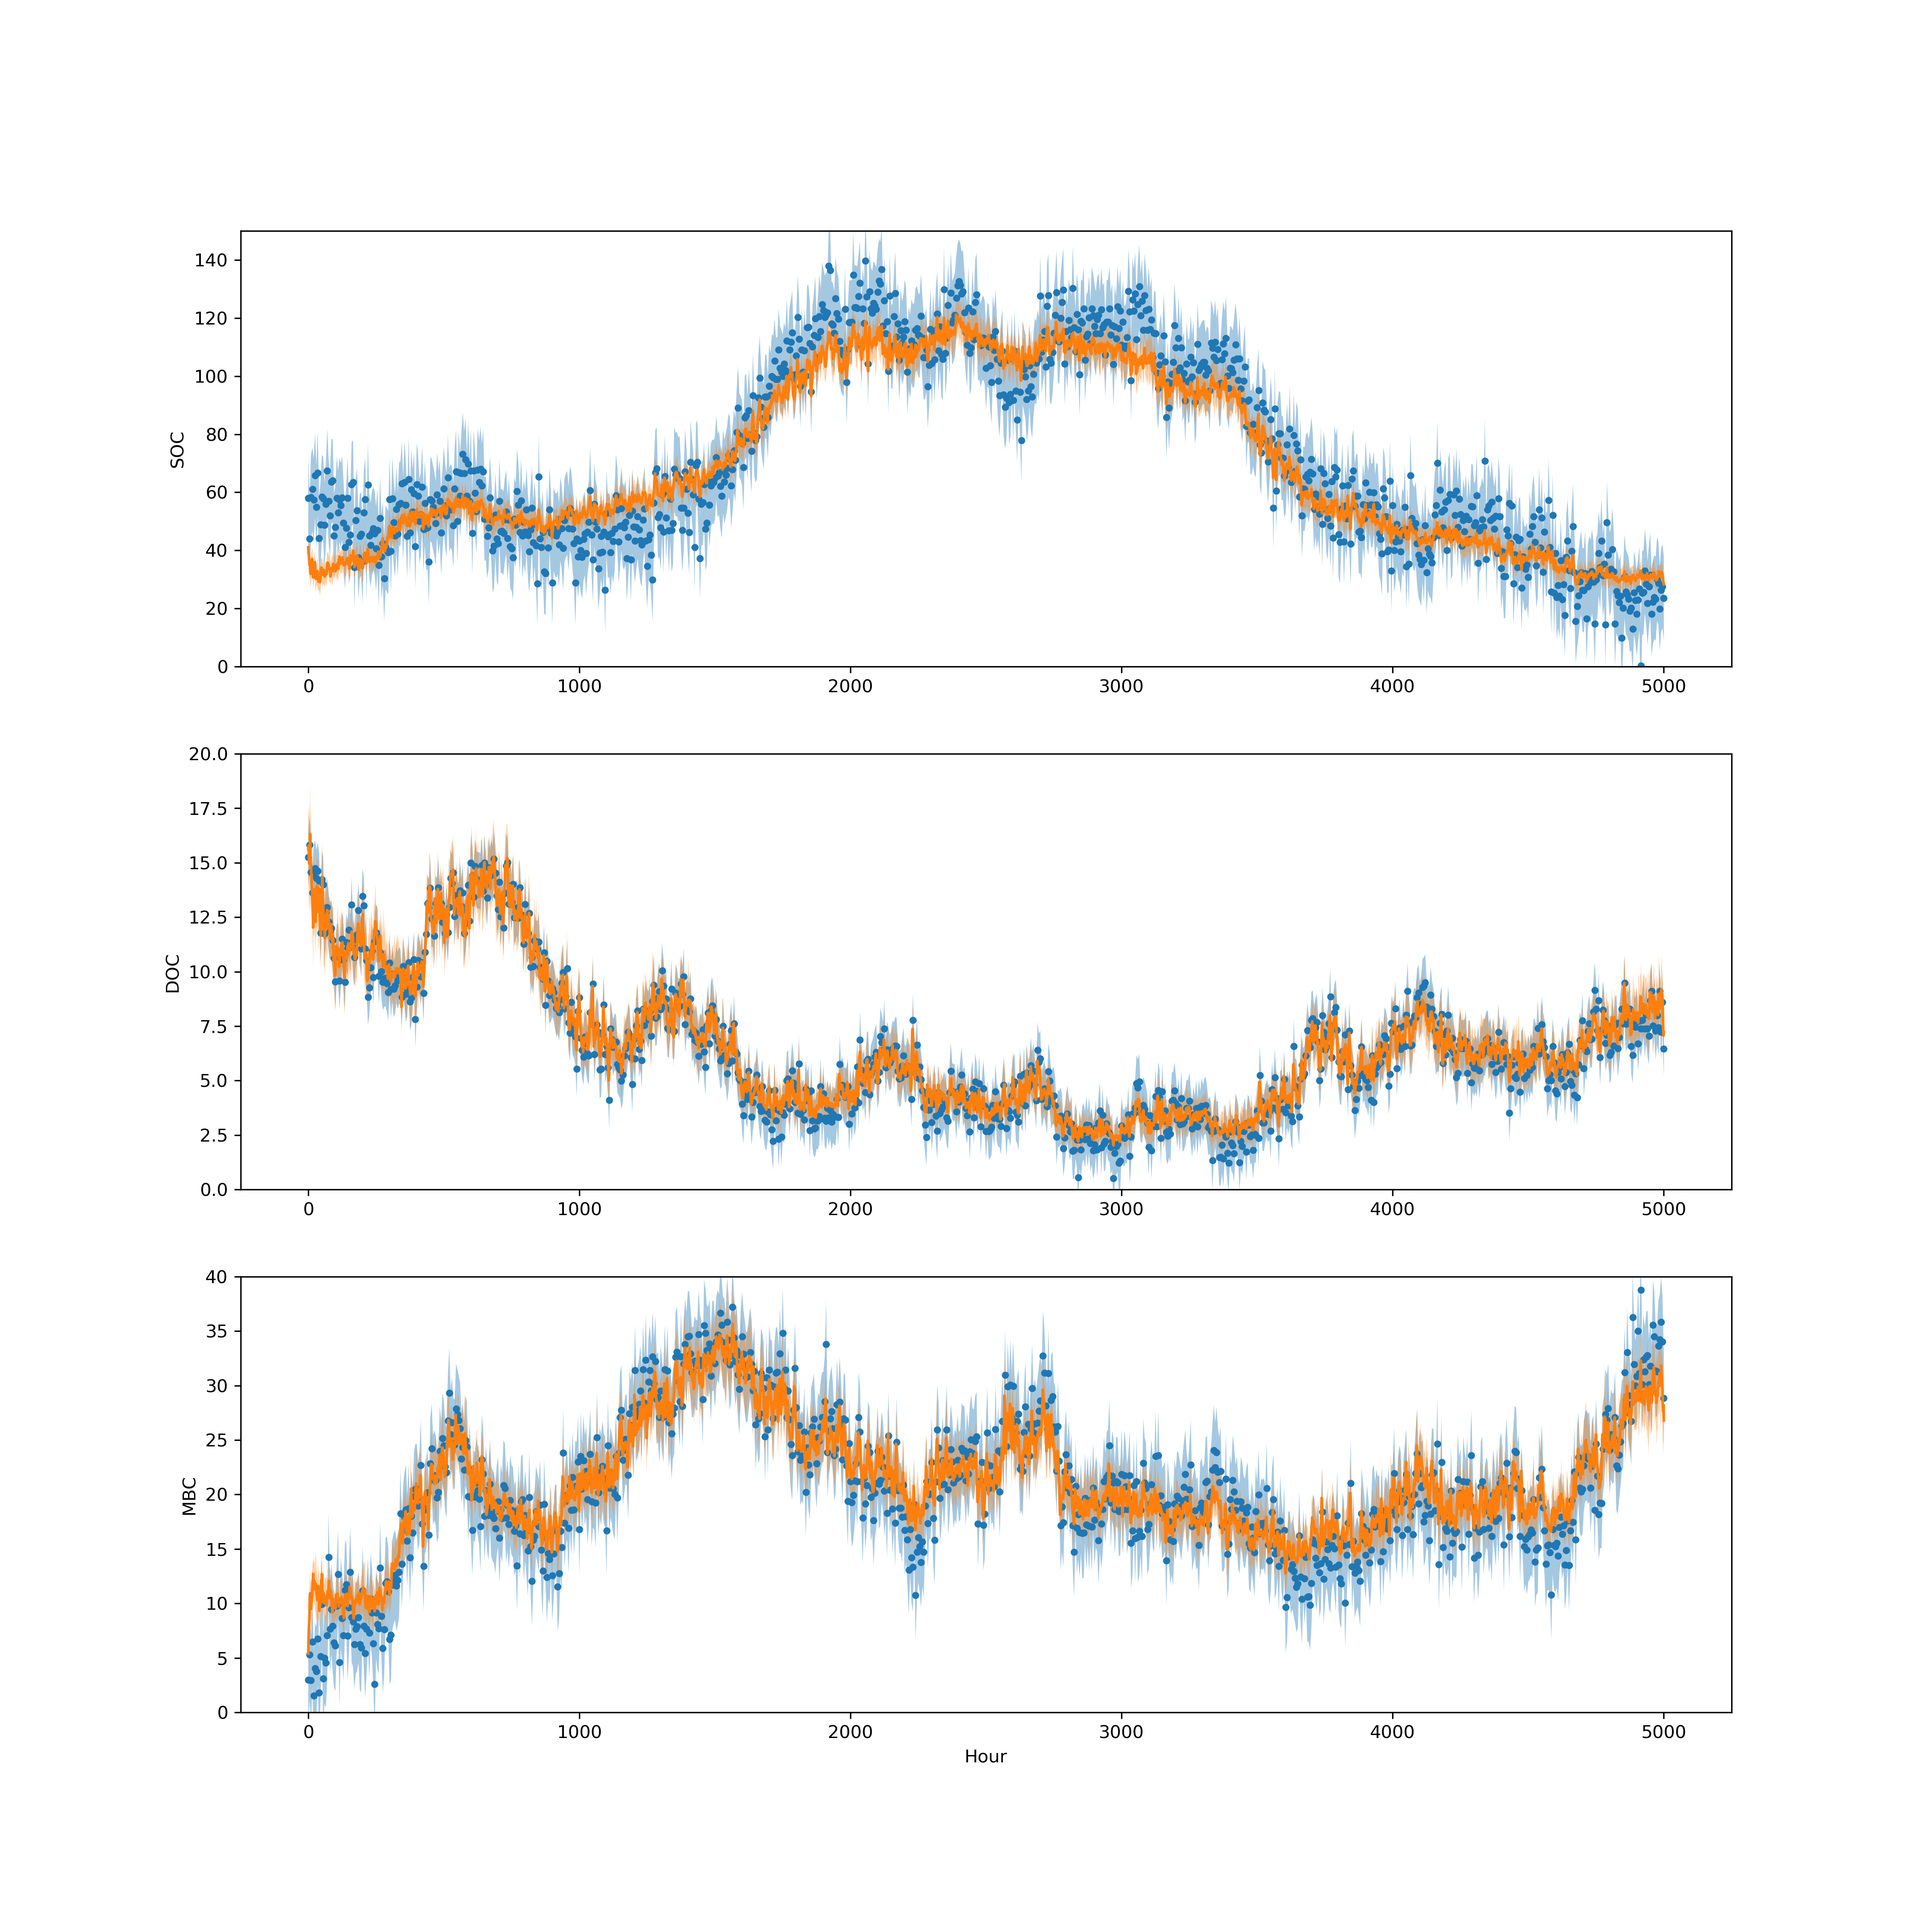
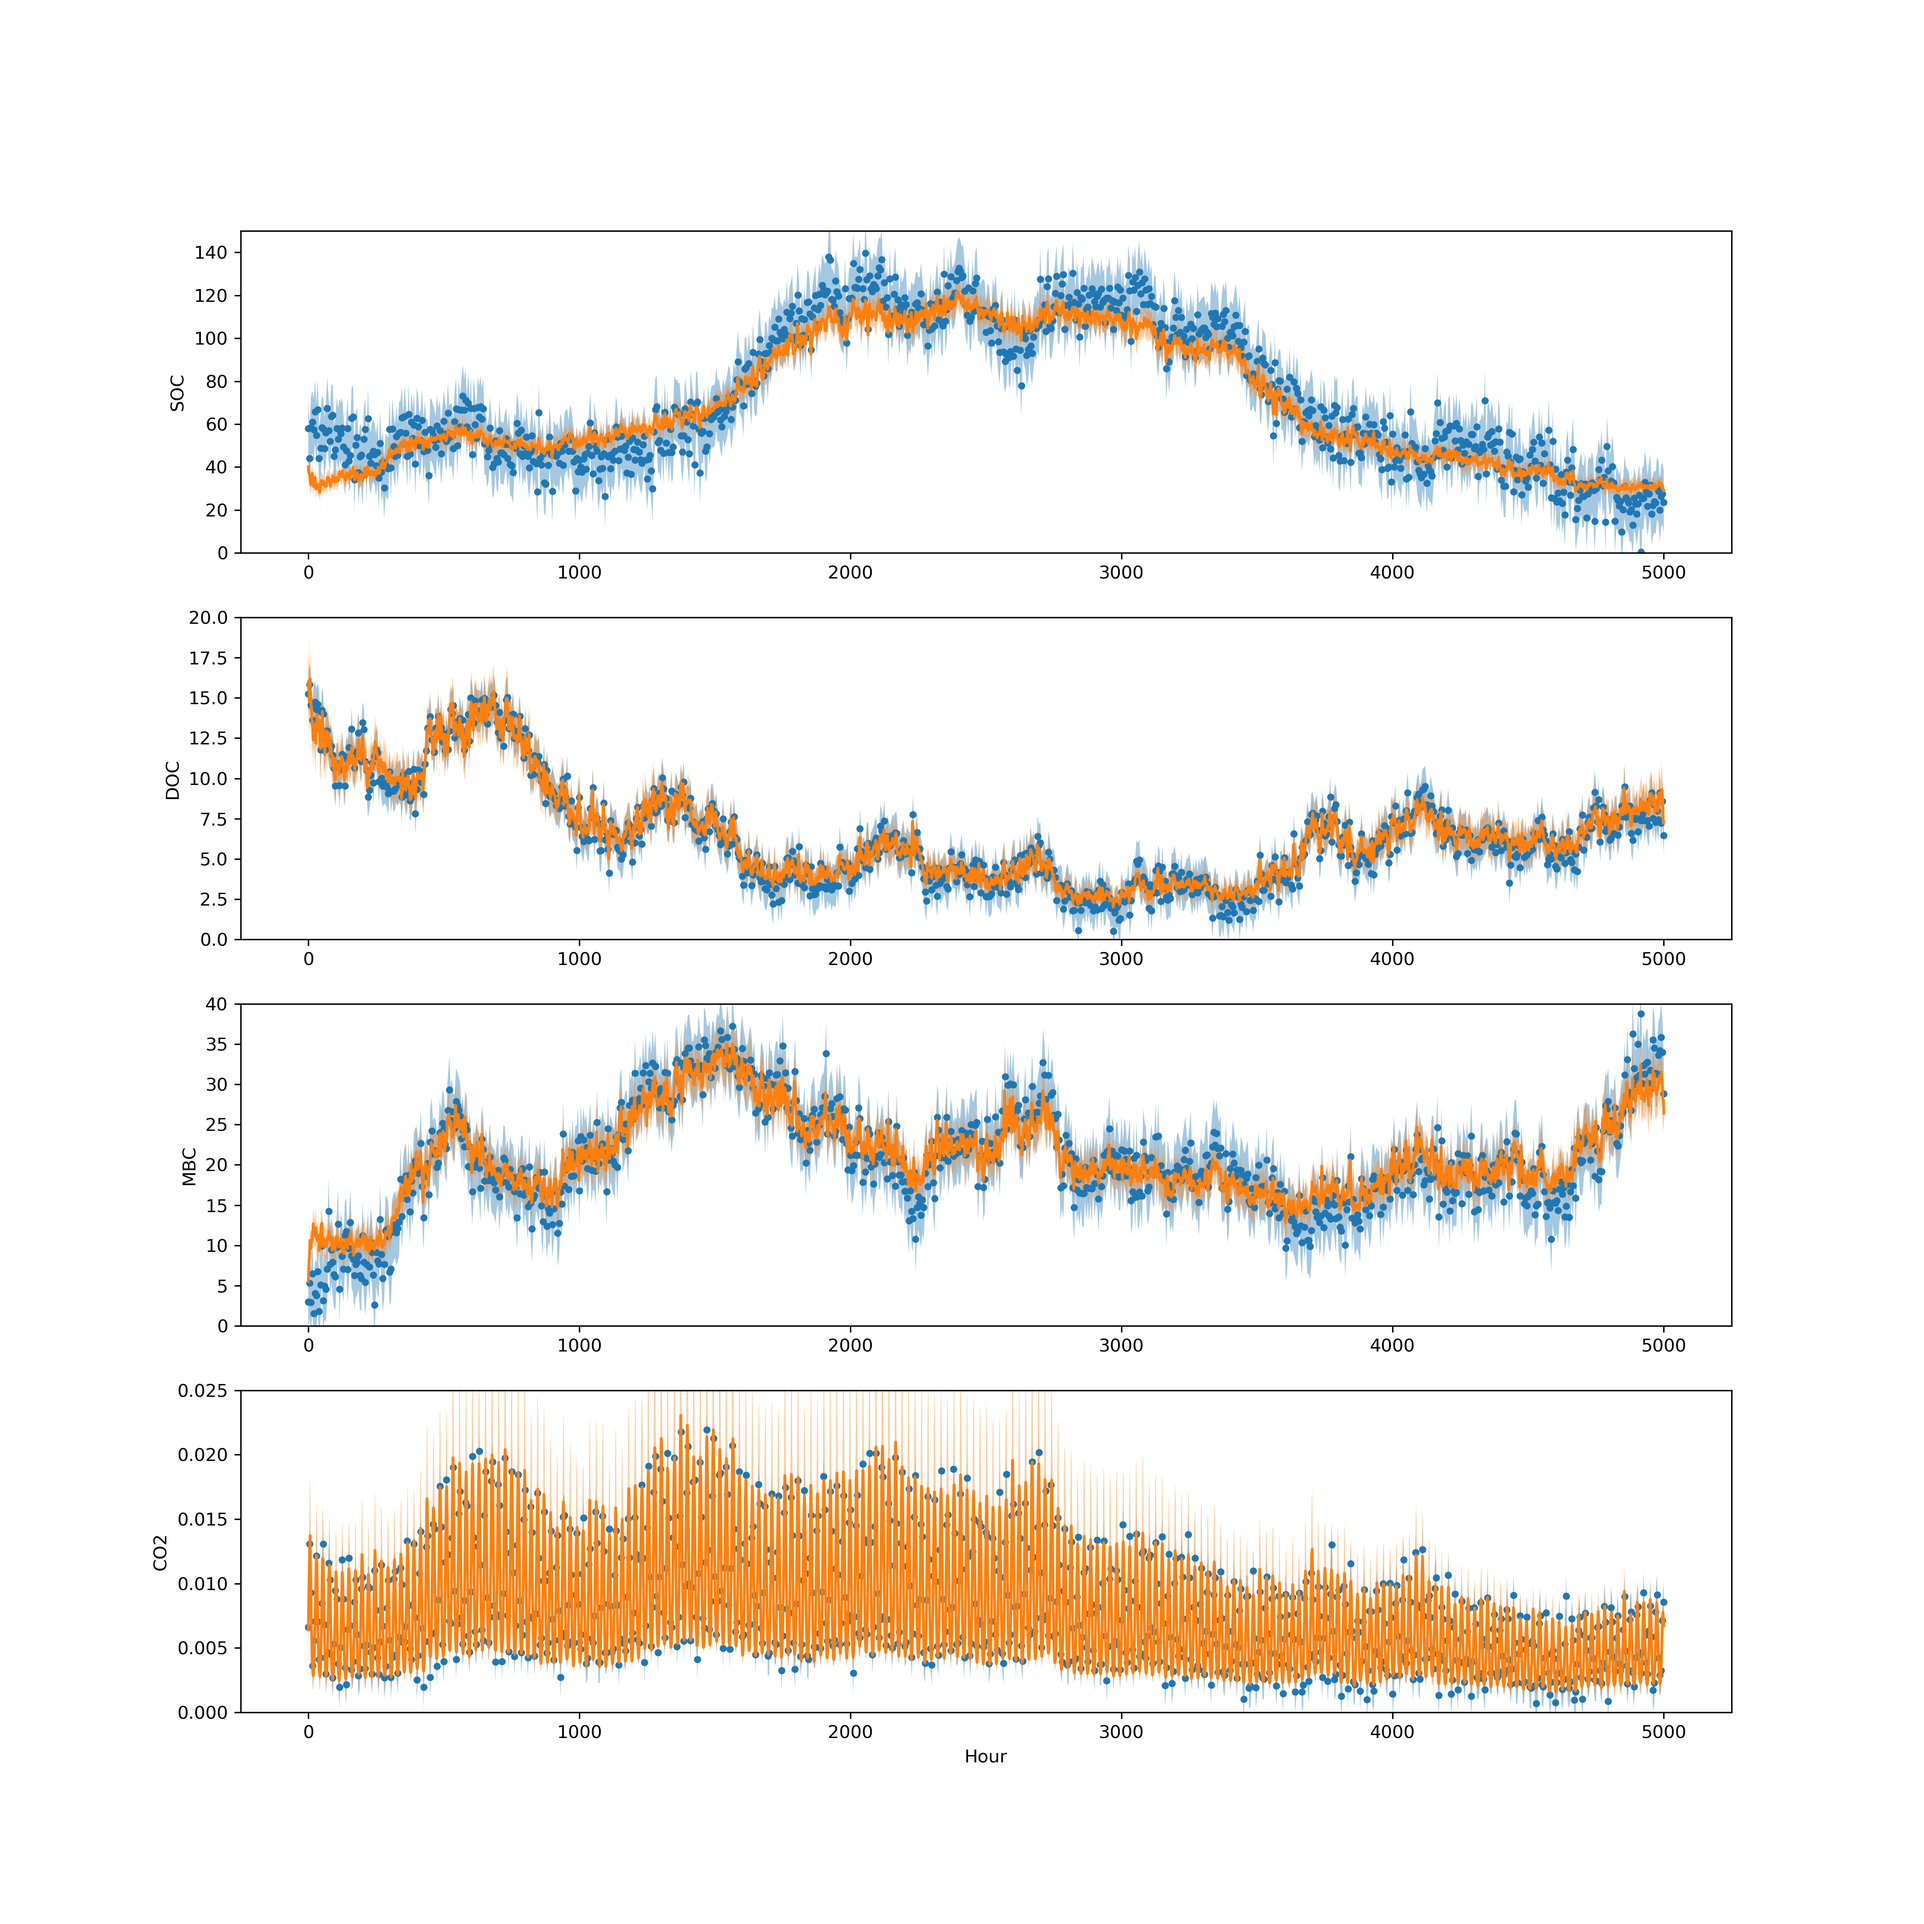
Added plotting.py debug fix for theta-fixing in oriignal learn_theta_trunc_SCON-SS_CO2.py script.

diff --git a/pytorch_sbm_sde_vi/plot_on_GPU3.py b/pytorch_sbm_sde_vi/plot_on_GPU3.py
@@ -36,7 +36,7 @@ torch.set_printoptions(precision = 8)
 
 #IAF SSM time parameters
 dt_flow = 1.0 #Increased from 0.1 to reduce memory.
-t = 5000 #In hours.
+t = 1000 #In hours.
 
 #Training parameters
 niter = 230000
@@ -48,10 +48,10 @@ prior_scale_factor = 0.333 #Proportion of prior standard deviation to prior mean
 num_layers = 5 #5 - number needed to fit UCI HPC3 RAM requirements with 16 GB RAM at t = 5000.
 learn_CO2 = True
 
-now_string = 'SCON-SS_CO2_trunc_5000_diff_theta_2021_10_15_12_53_43'
+now_string = 'SCON-SS_CO2_trunc_5000_diff_theta_2021_10_14_03_15_47'
 outputs_folder = 'training_pt_outputs/'
 plots_folder = 'training_plots/'
-save_string = '_iter_230000_t_5000_dt_1.0_batch_32_layers_5_lr_2e-05_sd_scale_0.333_SCON-SS_CO2_trunc_5000_diff_theta_2021_10_15_12_53_43.pt'
+save_string = '_iter_230000_t_1000_dt_1.0_batch_32_layers_5_lr_2e-05_sd_scale_0.333_SCON-SS_CO2_trunc_5000_diff_theta_2021_10_14_03_15_47.pt'
 
 net_save_string = os.path.join(outputs_folder, 'net' + save_string)
 q_theta_save_string = os.path.join(outputs_folder, 'q_theta' + save_string)

diff --git a/pytorch_sbm_sde_vi/learn_theta_trunc_SCON-SS_CO2.py b/pytorch_sbm_sde_vi/learn_theta_trunc_SCON-SS_CO2.py
@@ -131,5 +131,5 @@ net.eval()
 x, _ = net(eval_batch_size)
 plots_folder = 'training_plots/'
 plot_elbo(ELBO_hist, niter, t, dt_flow, batch_size, eval_batch_size, num_layers, train_lr, prior_scale_factor, plots_folder, now_string, xmin = int(niter * 0.2))
-plot_states_post(x, q_theta, obs_model, SBM_SDE_instance, niter, t, dt_flow, batch_size, eval_batch_size, num_layers, train_lr, prior_scale_factor, plots_folder, now_string, learn_CO2, ymin_list = [0, 0, 0, 0], ymax_list = [100., 12., 12., 0.08])
+plot_states_post(x, q_theta, obs_model, SBM_SDE_instance, niter, t, dt_flow, batch_size, eval_batch_size, num_layers, train_lr, prior_scale_factor, plots_folder, now_string, FIX_THETA_DICT = None, LEARN_CO2 = learn_CO2, ymin_list = [0, 0, 0, 0], ymax_list = [100., 12., 12., 0.08])
 plot_theta(p_theta, q_theta, true_theta, niter, t, dt_flow, batch_size, eval_batch_size, num_layers, train_lr, prior_scale_factor, plots_folder, now_string)
